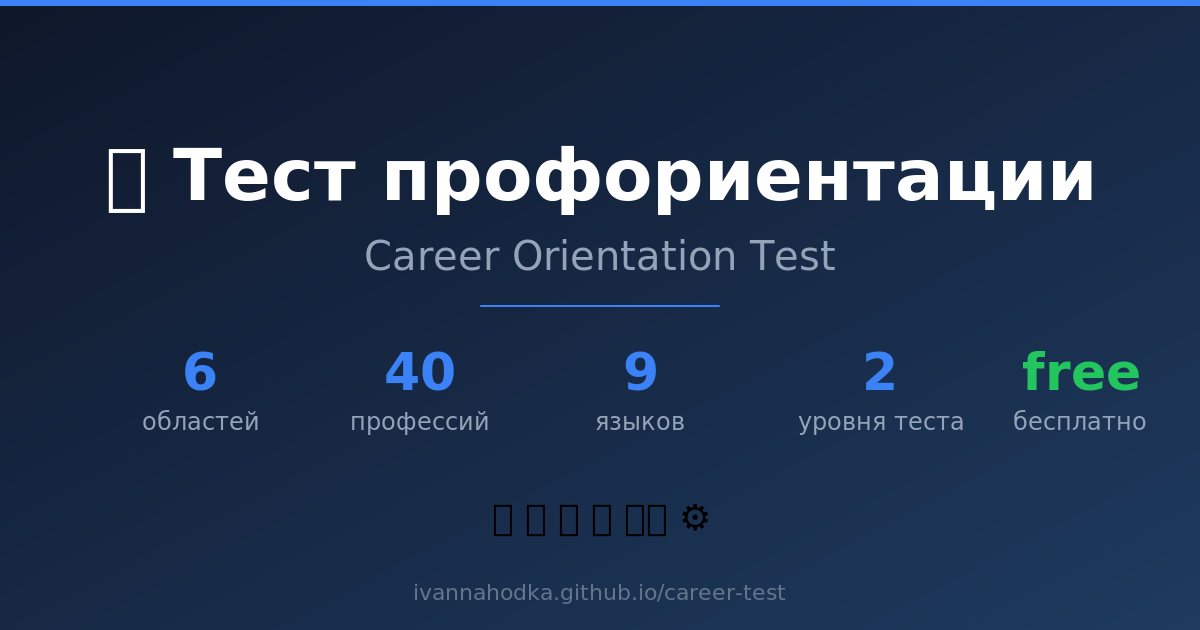
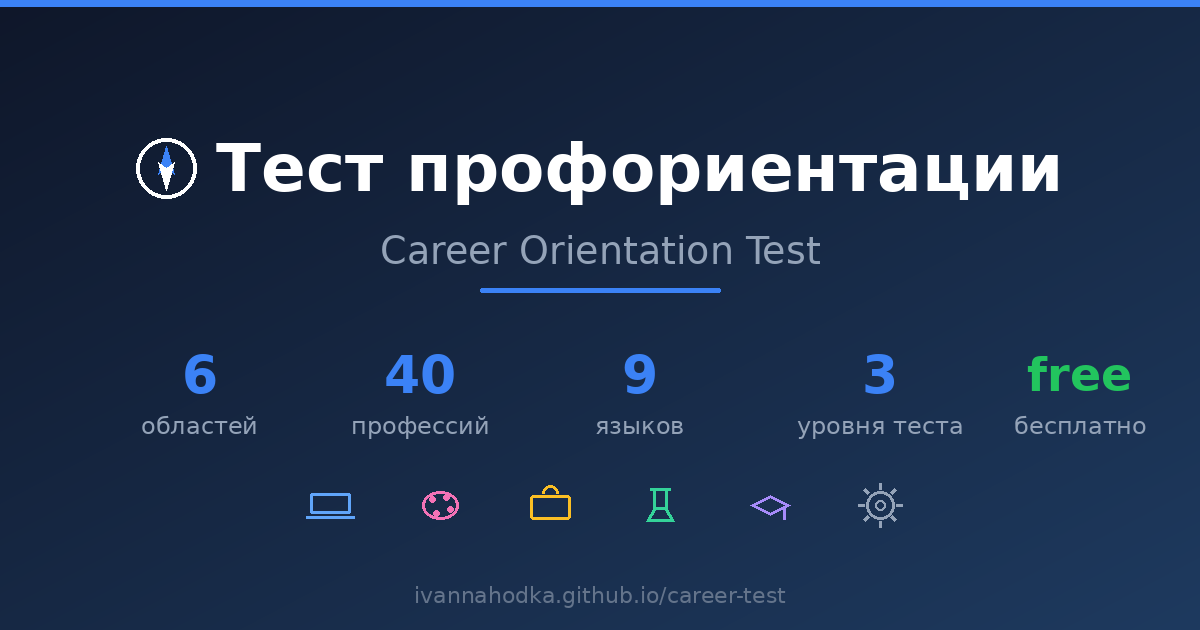
Add files via upload

diff --git a/glossary-static.html b/glossary-static.html
@@ -9,6 +9,7 @@
 <meta property="og:title" content="Глоссарий профессиональных терминов — 753 термина">
 <meta property="og:description" content="IT, медицина, наука, инженерия, психология — термины с объяснениями на русском и английском.">
 <meta property="og:url" content="https://ivannahodka.github.io/career-test/glossary-static.html">
+<meta property="og:image" content="https://ivannahodka.github.io/career-test/og-image.png">
 <style>
   body { font-family: system-ui, Arial, sans-serif; max-width: 860px; margin: 0 auto; padding: 24px 16px; color: #1a202c; line-height: 1.6; }
   h1 { font-size: 1.8rem; margin-bottom: 8px; }

diff --git a/how-to-choose-ru.html b/how-to-choose-ru.html
@@ -19,6 +19,7 @@
 <meta property="og:title" content="Как выбрать профессию — пошаговое руководство">
 <meta property="og:description" content="7 шагов от самоанализа до первой работы. Бесплатный тест профориентации.">
 <meta property="og:url" content="https://ivannahodka.github.io/career-test/how-to-choose-ru.html">
+<meta property="og:image" content="https://ivannahodka.github.io/career-test/og-image.png">
 <style>
   body { font-family: system-ui, Arial, sans-serif; max-width: 860px; margin: 0 auto; padding: 24px 16px; color: #1a202c; line-height: 1.7; }
   h1 { font-size: 2rem; margin-bottom: 8px; line-height: 1.3; }

diff --git a/how-to-choose-en.html b/how-to-choose-en.html
@@ -19,6 +19,7 @@
 <meta property="og:title" content="How to Choose a Career — Free Quiz & Step-by-Step Guide">
 <meta property="og:description" content="7 steps from self-analysis to your first job. Free career quiz and aptitude test included.">
 <meta property="og:url" content="https://ivannahodka.github.io/career-test/how-to-choose-en.html">
+<meta property="og:image" content="https://ivannahodka.github.io/career-test/og-image-en.png">
 <style>
   body { font-family: system-ui, Arial, sans-serif; max-width: 860px; margin: 0 auto; padding: 24px 16px; color: #1a202c; line-height: 1.7; }
   h1 { font-size: 2rem; margin-bottom: 8px; line-height: 1.3; }

diff --git a/glossary-static-en.html b/glossary-static-en.html
@@ -10,6 +10,7 @@
 <meta property="og:title" content="Career Glossary — 753 Professional Terms">
 <meta property="og:description" content="IT, medicine, science, engineering, psychology — professional terms explained in plain English.">
 <meta property="og:url" content="https://ivannahodka.github.io/career-test/glossary-static-en.html">
+<meta property="og:image" content="https://ivannahodka.github.io/career-test/og-image-en.png">
 <style>
   body { font-family: system-ui, Arial, sans-serif; max-width: 860px; margin: 0 auto; padding: 24px 16px; color: #1a202c; line-height: 1.6; }
   h1 { font-size: 1.8rem; margin-bottom: 8px; }
